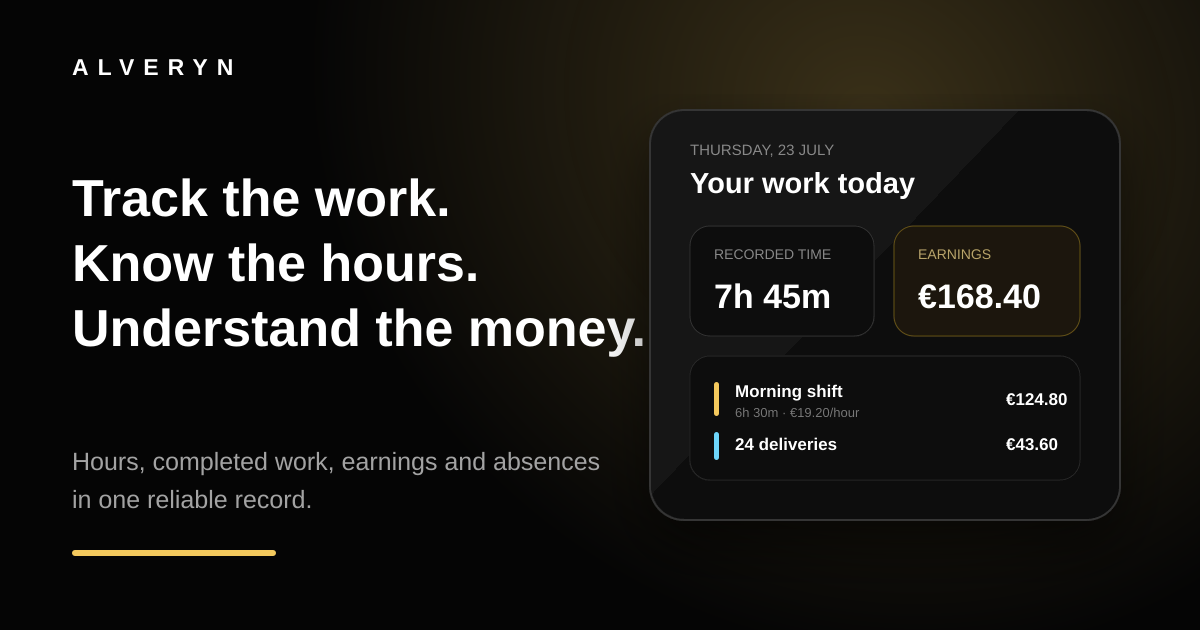
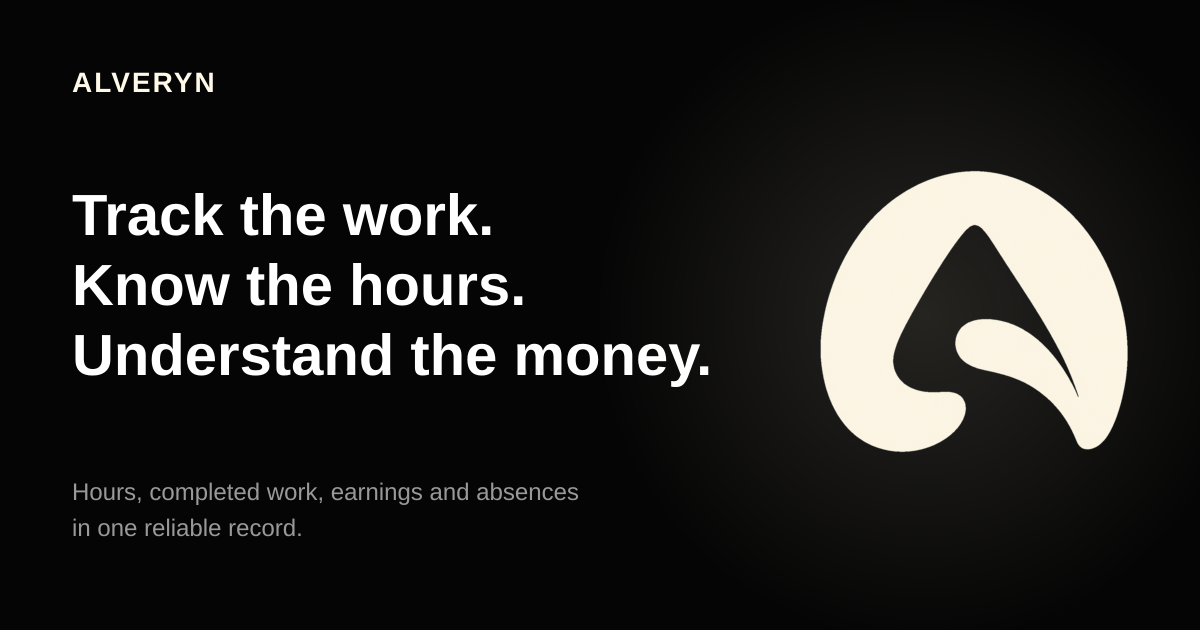
Adopt new Alveryn brand identity

diff --git a/frontend/index.html b/frontend/index.html
@@ -31,7 +31,7 @@
     <meta property="og:image" content="https://alveryn.com/social/alveryn-og.png" />
     <meta property="og:image:width" content="1200" />
     <meta property="og:image:height" content="630" />
-    <meta property="og:image:alt" content="Alveryn work and earnings dashboard preview" />
+    <meta property="og:image:alt" content="Alveryn logo and work tracking product message" />
     <meta name="twitter:card" content="summary_large_image" />
     <meta name="twitter:title" content="Alveryn — Understand your work and earnings" />
     <meta
@@ -39,8 +39,10 @@
       content="Track hours, completed work, rates, earnings and absences in one reliable record."
     />
     <meta name="twitter:image" content="https://alveryn.com/social/alveryn-og.png" />
+    <meta name="twitter:image:alt" content="Alveryn logo and work tracking product message" />
     <link rel="manifest" href="/manifest.webmanifest" />
-    <link rel="icon" href="/icons/icon-192.png" />
+    <link rel="icon" type="image/png" sizes="32x32" href="/icons/icon-32.png" />
+    <link rel="icon" type="image/png" sizes="192x192" href="/icons/icon-192.png" />
     <link rel="apple-touch-icon" href="/icons/icon-180.png" />
     <script type="application/ld+json">
       {
@@ -50,6 +52,7 @@
         "applicationCategory": "BusinessApplication",
         "operatingSystem": "Web",
         "url": "https://alveryn.com/",
+        "logo": "https://alveryn.com/brand/alveryn-mark.png",
         "description": "Track hours, completed work, rates, earnings and absences in one reliable record.",
         "featureList": [
           "Check-in and check-out time tracking",

diff --git a/frontend/src/components/branding/app-logo.tsx b/frontend/src/components/branding/app-logo.tsx
@@ -2,14 +2,22 @@ import { cn } from "../../utils/cn";
 
 type Props = {
   className?: string;
+  wordmark?: boolean;
 };
 
-export function AppLogo({ className }: Props) {
+export function AppLogo({ className, wordmark = false }: Props) {
   return (
-    <div className={cn("flex items-center justify-center", className)}>
-      <span className="font-name text-[0.95rem] font-semibold uppercase leading-none tracking-[0.34em] text-white">
-        Alveryn
-      </span>
+    <div className={cn("flex items-center justify-center", wordmark && "gap-2.5", className)}>
+      <img
+        src="/brand/alveryn-mark.png"
+        alt={wordmark ? "" : "Alveryn"}
+        className={cn("app-logo-mark object-contain", wordmark ? "h-7 w-7" : "h-9 w-9")}
+      />
+      {wordmark ? (
+        <span className="app-logo-wordmark font-name text-[0.78rem] font-semibold uppercase leading-none tracking-[0.28em] text-white">
+          Alveryn
+        </span>
+      ) : null}
     </div>
   );
 }

diff --git a/frontend/src/pages/home-page.tsx b/frontend/src/pages/home-page.tsx
@@ -22,7 +22,7 @@ export function HomePage() {
       >
         <div className="relative top-16 z-10 flex h-9 items-center px-5">
           <span className="hairline-text whitespace-nowrap">{monthLabel}</span>
-          <AppLogo className="absolute left-1/2 -translate-x-1/2" />
+          <AppLogo wordmark className="absolute left-1/2 -translate-x-1/2" />
         </div>
       </div>
       <header className="space-y-2.5 pt-1" data-scroll-region="page-top">

diff --git a/frontend/src/styles/index.css b/frontend/src/styles/index.css
@@ -85,6 +85,18 @@ h3,
   font-family: Sora, Inter, ui-sans-serif, system-ui, sans-serif;
 }
 
+.app-logo-mark {
+  transition: filter 180ms ease;
+}
+
+html[data-theme="light"] .app-logo-mark {
+  filter: brightness(0.08) saturate(0);
+}
+
+html[data-theme="light"] .app-logo-wordmark {
+  color: #151515;
+}
+
 *::selection {
   background: rgba(255, 255, 255, 0.22);
 }
